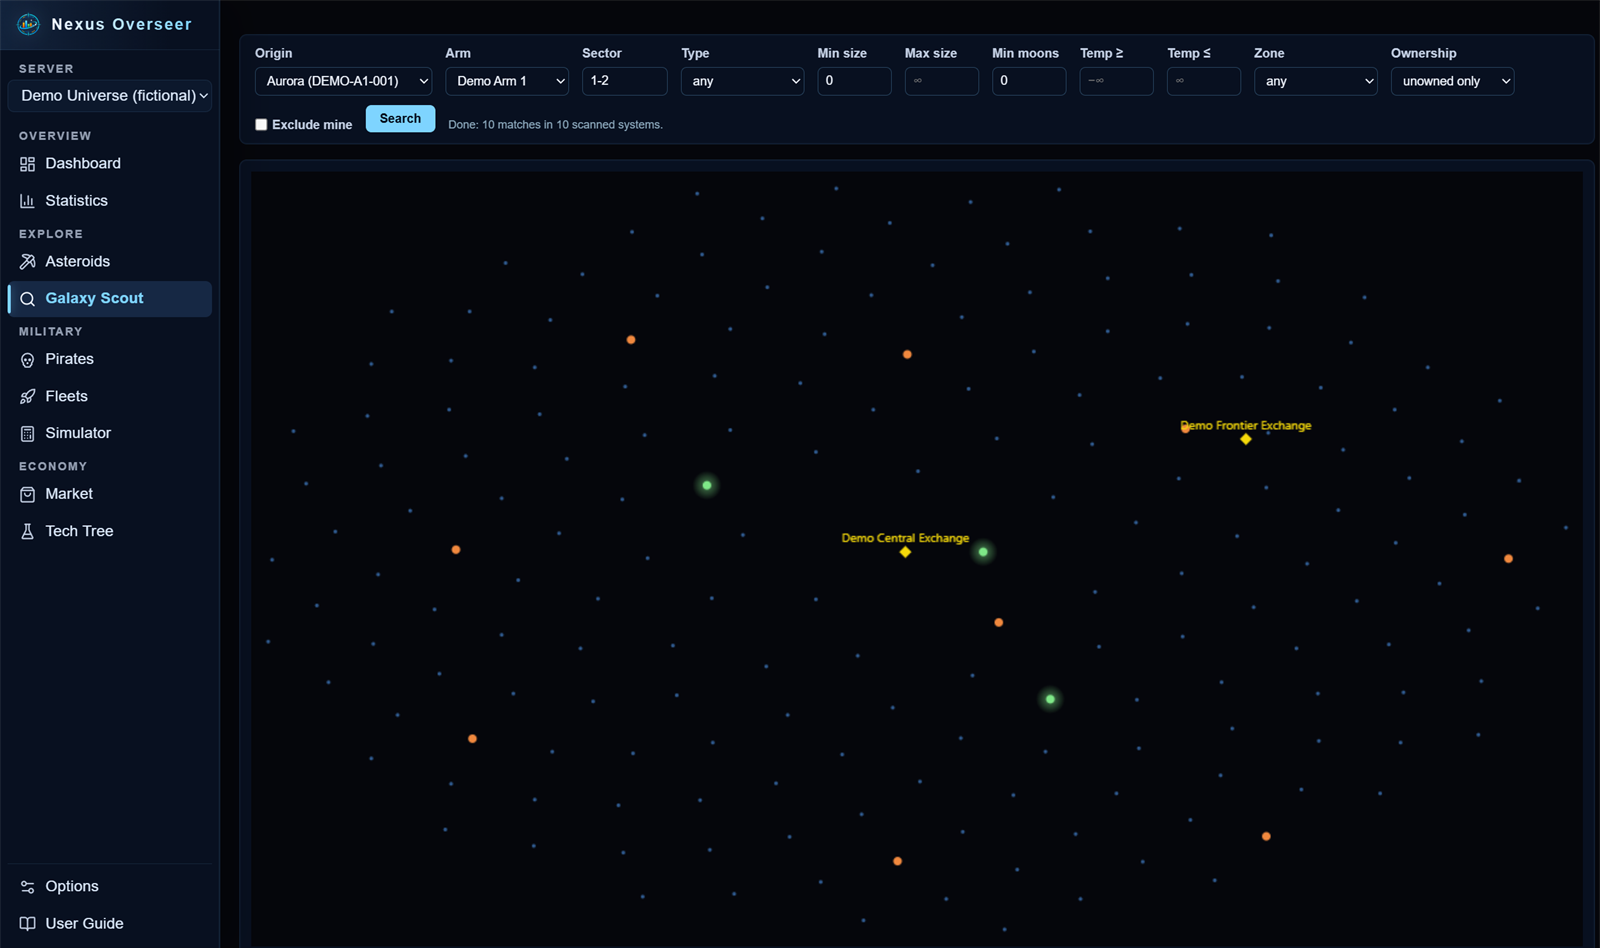
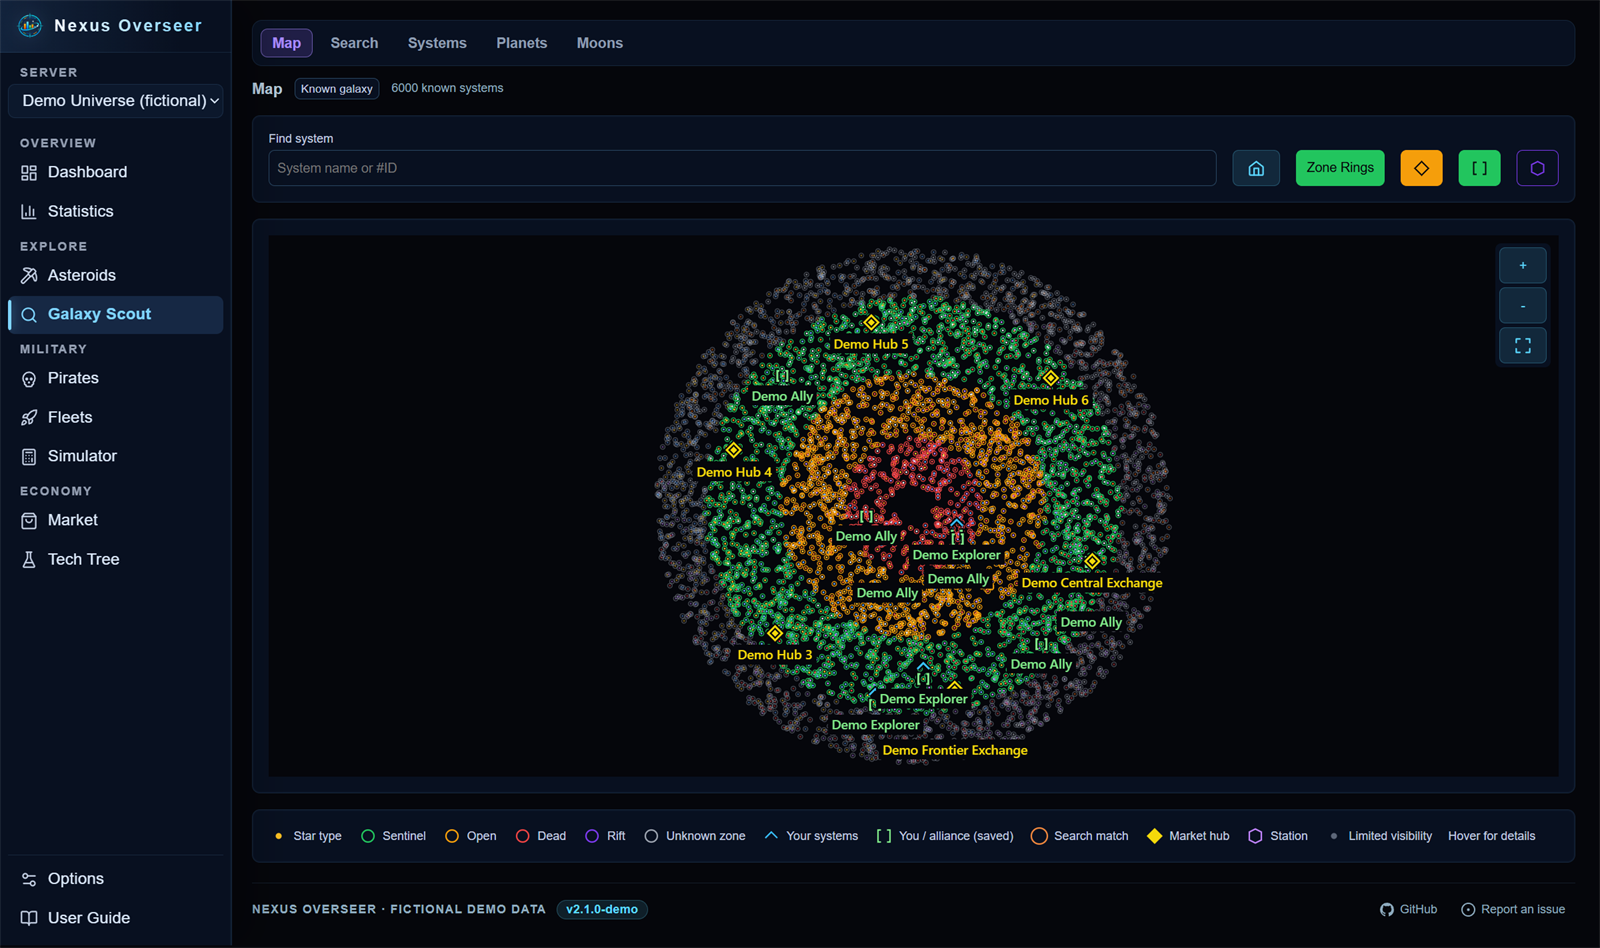
docs: refresh Galaxy Scout map screenshot
Replace the fictional Galaxy Scout screenshot with the whole-galaxy Map view
and align the demo capture instructions.

diff --git a/docs/screenshot-demo.md b/docs/screenshot-demo.md
@@ -82,7 +82,7 @@ All eleven regular main tabs are covered:
 | Dashboard | `dashboard.png` | Default view |
 | Statistics | `statistics.png` | Global subtab, all time, all zones |
 | Asteroids | `asteroids.png` | The fictional cached scan is loaded automatically |
-| Galaxy Scout | `galaxy-scout.png` | Demo Arm 1, sectors `1-2`; click Search, wait for automatic unknown-ownership checks, then optionally refresh known ownership and filter Last known ownership |
+| Galaxy Scout | `galaxy-scout.png` | Default Map view, whole galaxy, zone rings, market hubs and alliance markers enabled; leave the system lookup empty |
 | Pirates | `pirates.png` | Camps and battle reports load automatically |
 | Fleets | `fleet-templates.png` | Select Demo - Balanced Mining |
 | Simulator | `combat-simulator.png` | Load my fleet from Aurora, then select the Demo Frontier spy report |
